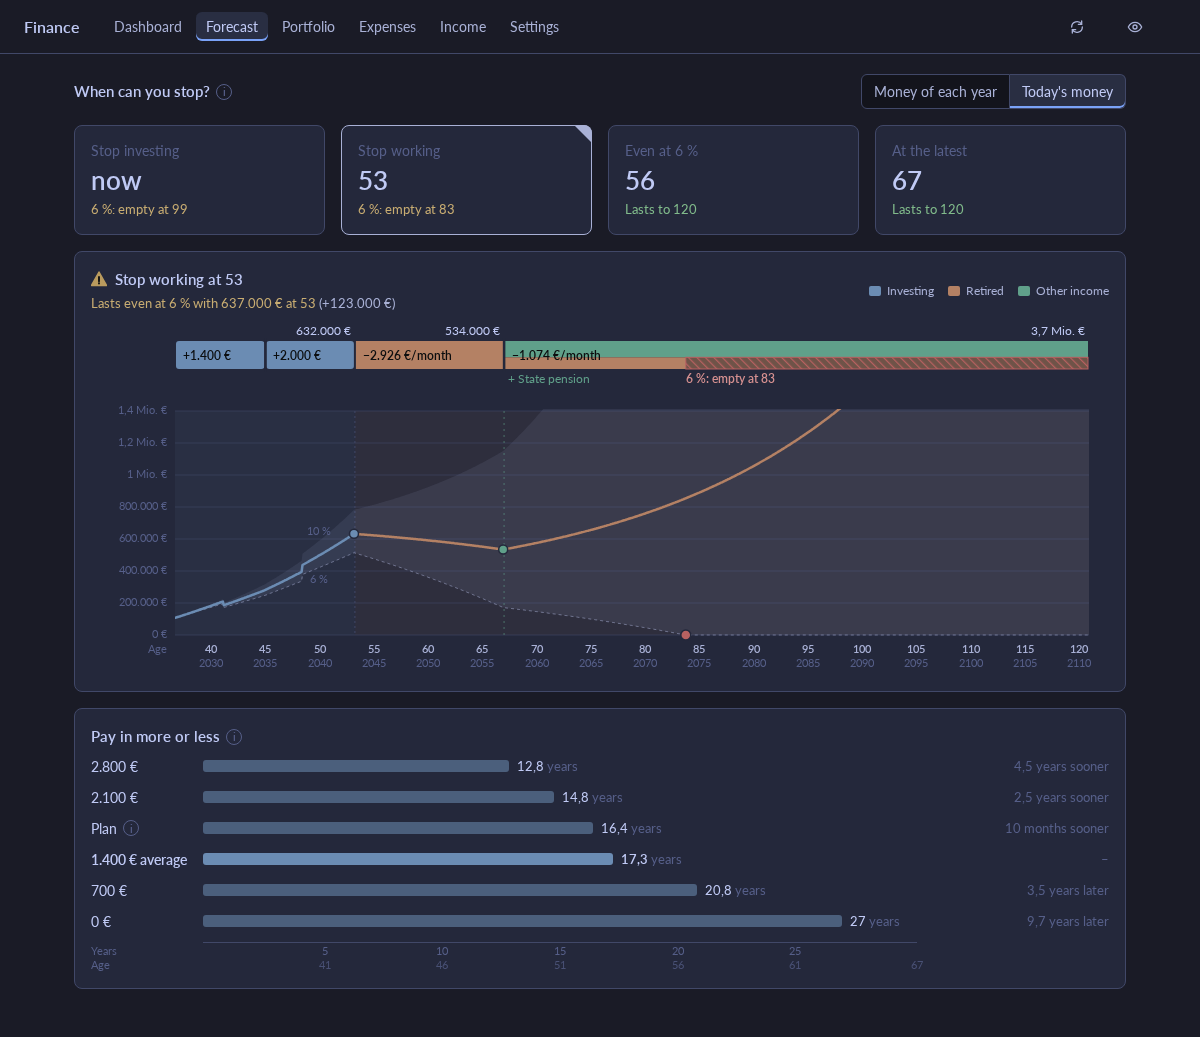
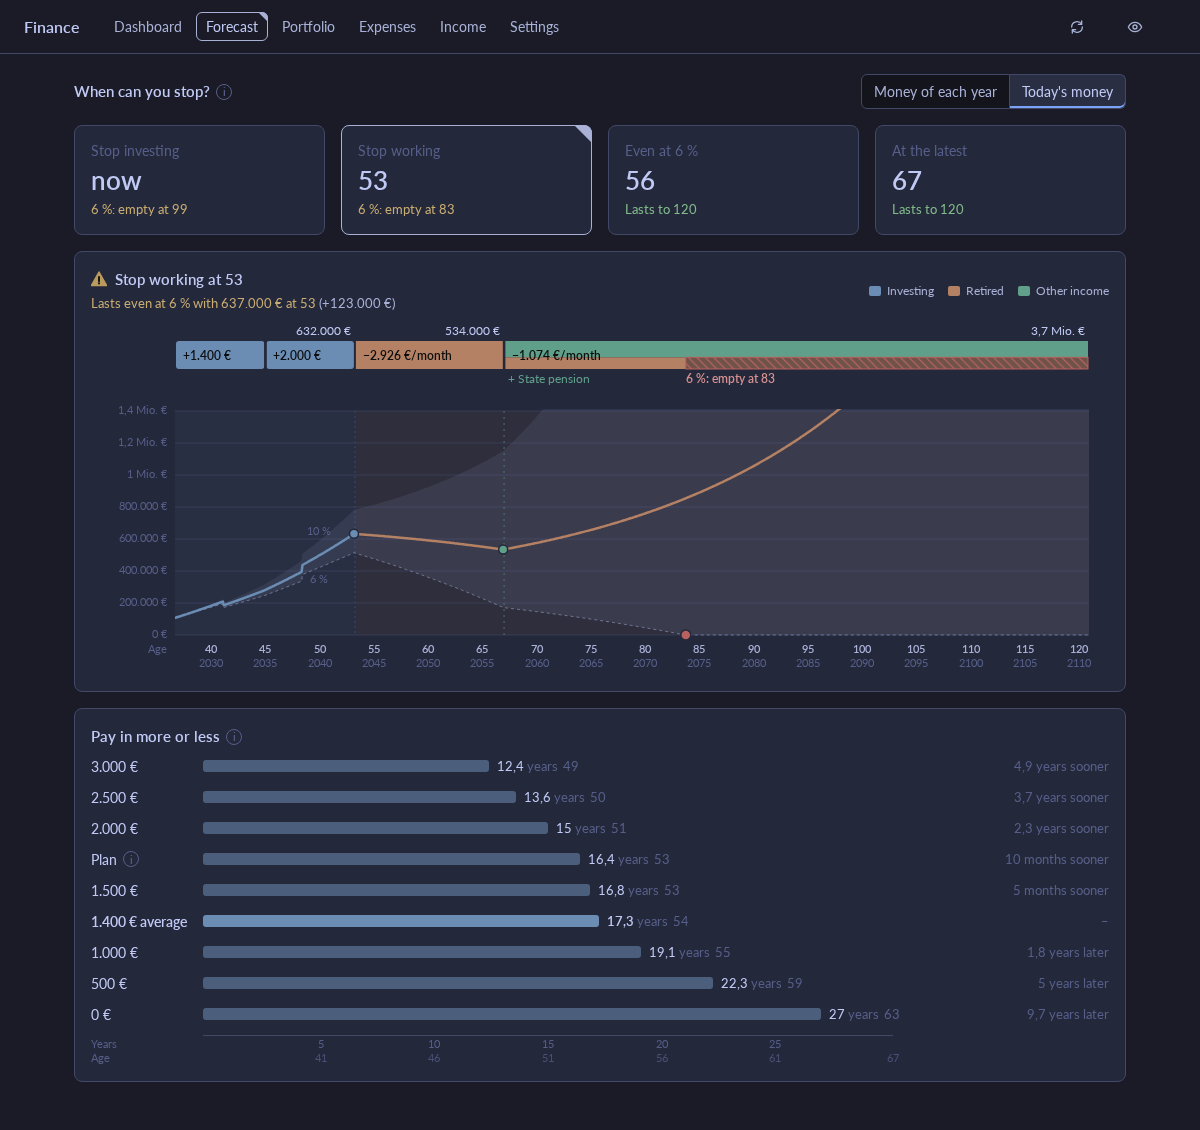
Compare fixed pay-ins and show the age on the pay-in card
"Pay in more or less" on the Forecast now compares 0 to 3.000 a month in
steps of 500, plus the plan and the 12-month average, instead of 2, 1½, ½
and 0 times the average. An average equal to one of the steps marks that
row instead of adding a second one. Each bar now ends with how long it is
from now and the age then, without a unit ("12,4 years 49"); the room
after the bars grows to 96 px so it fits.

With amounts hidden, the rows show dots like every other amount, so the
2×/½× labels go. README, CONTEXT and docs/forecast.png are updated.

diff --git a/app/style.css b/app/style.css
@@ -1275,9 +1275,10 @@ main > div {
 /* Pay in more or less: a bar per amount, from now to when you could stop
    working, on a line of years from now to the retirement age. The rows
    share the columns: the amount, the bar, sooner or later. --at is where
-   on the line, 0 to 1; the line leaves room after it for how long. */
+   on the line, 0 to 1; the line leaves room after it for how long and
+   the age then. */
 .payin-rows {
-  --payin-room: 72px;
+  --payin-room: 96px;
   display: grid;
   grid-template-columns: max-content minmax(0, 1fr) max-content;
   column-gap: 16px;
@@ -1337,6 +1338,13 @@ main > div {
 }
 
 .payin-unit {
+  color: var(--fg-muted);
+  font-weight: 400;
+}
+
+/* The age at the stop, without a unit. */
+.payin-age {
+  margin-left: 2px;
   color: var(--fg-muted);
   font-weight: 400;
 }

diff --git a/README.md b/README.md
@@ -440,20 +440,19 @@ not in the data file.
 **Pay in more or less** shows what paying in more or less does: a bar for
 each amount a month, from now to when you could stop working (as Stop
 working counts it, at the expected return), with how long that is from
-this month after it, and how much sooner or later that is than with the
-average pay-in of the last 12 months (bold). Both are in months under a
-year, else in years to a tenth; sooner or later is the difference of the
-tenths shown, so the rows add up. The line under the bars counts years
-from now, with your age then under it, and ends at the retirement age;
-hovering a bar shows its month and your age. The others are 2, 1½, ½ and 0 times
-the average, each paid in every month from now on (rising with inflation
-when pay-ins do); with an average of 0, round amounts near a quarter of the
-expenses. **Plan** is what you pay in
-as set in Settings, with its changes (its ⓘ lists them): it is a row when
-that isn't the average every month, and stops when the Stop working card
-does. A hatched bar doesn't reach FI before the retirement age. With
-amounts hidden, the rows say 2×, 1½×, average, ½× and nothing. The card
-isn't there once FI is reached, or once retired.
+this month and your age then after it ("12,4 years 49"), and how much
+sooner or later that is than with the average pay-in of the last 12 months
+(bold). Both are in months under a year, else in years to a tenth; sooner
+or later is the difference of the tenths shown, so the rows add up. The
+line under the bars counts years from now, with your age then under it,
+and ends at the retirement age; hovering a bar shows its month and your
+age. The amounts are 0 to 3.000 in steps of 500, and the average among
+them (it takes the place of the one it equals), each paid in every month
+from now on (rising with inflation when pay-ins do). **Plan** is what you
+pay in as set in Settings, with its changes (its ⓘ lists them): it is a
+row when that isn't the average every month, and stops when the Stop
+working card does. A hatched bar doesn't reach FI before the retirement
+age. The card isn't there once FI is reached, or once retired.
 
 - It starts from the portfolio in the latest month, and grows it by the
   growth rate every month (8 % a year is about 0.64 % a month), as Time to

diff --git a/CONTEXT.md b/CONTEXT.md
@@ -138,9 +138,10 @@ then at the low growth. `forecast()`'s _needs_ give it for every month.
 
 **Pay-in scenarios** (`fiOutlook().payIns()`, “Pay in more or less” on
 the Forecast): when you could stop working, as _Retire at FI_ counts it,
-paying in the same amount every month from now on: 2, 1½, 1, ½ and 0 times
-the average pay-in (round amounts when the average is 0). The _plan_ row
-is the pay-in plan, there when it isn't the average every month.
+paying in the same amount every month from now on: 0 to 3,000 in steps of
+500 (`PAY_IN_STEPS`) and the average pay-in, a row of its own unless it is
+one of them. The _plan_ row is the pay-in plan, there when it isn't the
+average every month.
 
 **Phases**: _Investing_, _Coasting_ and _Retired_. A pension or other
 income that starts, or an expense that ends, is a _step_ inside Retired,
